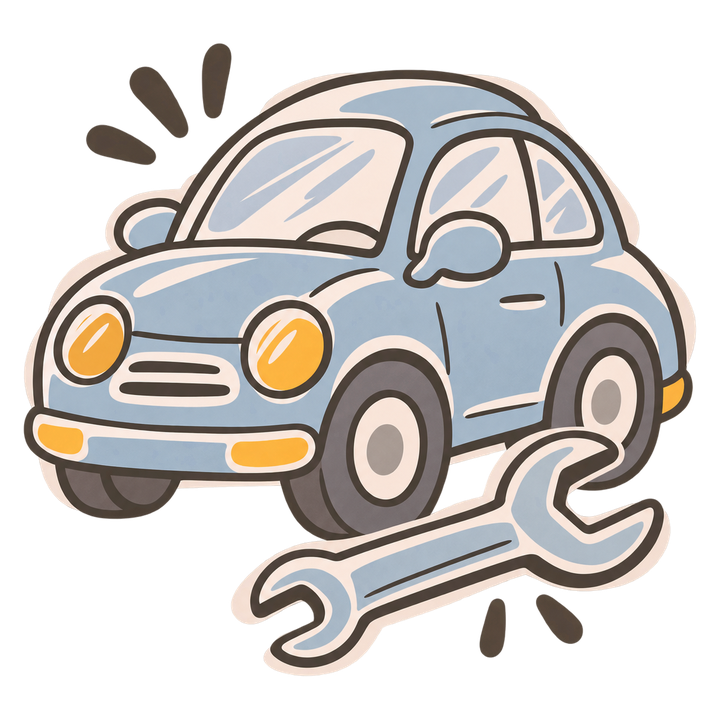
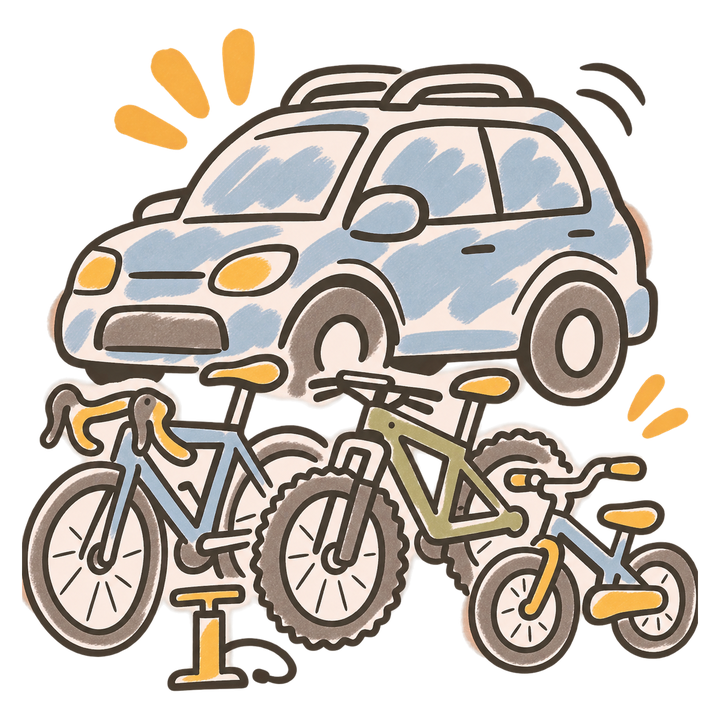
Neues Bild für Auto & Fahrräder
Claude-Session: https://claude.ai/code/session_0153etfXZ4ZJ4eYpqE3t9jxu

diff --git a/docs/kartentexte.md b/docs/kartentexte.md
@@ -29,7 +29,7 @@ Die geparkten Karten haben bisher nur eine kurze Beschreibung. Holt ihr eine zur
 
 | Karte | Worum geht's | Dran-Denken | Planen | Erledigen |
 | --- | --- | --- | --- | --- |
-| **Auto** (O1) | Das Auto fährt, ist versichert und sicher. | Denkt an Service, Pickerl bzw. TÜV, Reifenwechsel und Tankstand. | Macht Werkstatttermine und vergleicht Versicherungen. | Bringt das Auto hin, wechselt Reifen, tankt und wäscht es. |
+| **Auto & Fahrräder** (O1) | Auto und Familienräder sind fahrbereit, versichert und sicher. Matthias' Rennrad pflegt er selbst. | Denkt an Service, Pickerl bzw. TÜV, Reifenwechsel und Tankstand – und daran, dass die Fahrräder Luft, Licht und funktionierende Bremsen haben und Leanders Rad noch passt. | Macht Werkstatttermine, vergleicht Versicherungen und plant Rad-Service, Ersatzteile, Schlösser und Helme. | Bringt Auto und Räder zur Werkstatt, wechselt Reifen, tankt, wäscht das Auto und pumpt die Räder auf. |
 | **Familienkalender** (O3) | Alle Termine der Familie stehen an einem Ort, und alle wissen, was ansteht. | Bemerkt neue Termine aus Schule, Arbeit, Vereinen und Familie. | Trägt ein, erkennt Überschneidungen und klärt, wer wann wo ist. | Erinnert rechtzeitig und hält den Kalender aktuell. |
 | **Bargeld & Rechnungen** (O4) | Rechnungen sind bezahlt, und es ist genug Bargeld da. | Merkt, wann Rechnungen kommen und wann Bargeld oder Taschengeld gebraucht wird. | Richtet Daueraufträge ein und behält Fälligkeiten im Blick. | Zahlt, hebt ab und legt Belege ab. |
 | **Elektronik & IT** (O7) | Geräte, WLAN, Konten und Updates funktionieren. | Merkt, wenn etwas hakt, und denkt an Updates, Backups und Passwörter. | Wählt Geräte und Verträge aus und plant Einrichtung oder Austausch. | Richtet ein, repariert, aktualisiert und hilft bei Problemen. |
@@ -60,7 +60,7 @@ Die geparkten Karten haben bisher nur eine kurze Beschreibung. Holt ihr eine zur
 | **Schulwechsel** (C18) | Leanders Wechsel aufs Gymnasium gelingt gut. | Denkt an Anmeldung, Probeunterricht, Schulweg und Eingewöhnung. | Vergleicht Schulen, hält Fristen ein und bereitet Leander vor. | Meldet an, begleitet die ersten Tage und hält Kontakt zur neuen Schule. |
 | **Self-Care (Katja)** (C19) | Katja hat Zeit für das, was sie gesund und kräftig hält. | Merkt, was sie braucht: Sport, Schlaf, Arzttermine, Pausen. | Blockt feste Zeiten dafür im Kalender. | Nimmt sich die Zeit – und hält sie. |
 | **Self-Care (Matthias)** (C20) | Matthias hat Zeit für das, was ihn gesund und kräftig hält. | Merkt, was er braucht: Sport, Schlaf, Arzttermine, Pausen. | Blockt feste Zeiten dafür im Kalender. | Nimmt sich die Zeit – und hält sie. |
-| **Besondere Bedürfnisse & psychische Gesundheit (Kind)** (C21) | Leander bekommt die Begleitung, die er braucht – Ärzte, Therapie, Rezepte und Struktur im Alltag. | Hat Termine, Medikation, Rezepte und Gespräche mit Schule und Therapie im Blick, auch allgemeine Arzttermine. | Sucht Fachleute, koordiniert Termine und Kosten und plant die Unterstützung. | Geht zu Terminen, holt Rezepte und Medikamente und setzt Absprachen im Alltag um. |
+| **Besondere Bedürfnisse & psychische Gesundheit (Kind)** (C21) | Leander bekommt die Begleitung, die er braucht – Ärzte, Therapie, Rezepte und Struktur im Alltag. | Hat Termine, Medikation, Rezepte und Gespräche mit Schule und Therapie im Blick, auch allgemeine Arzttermine. | Sucht Fachleute, koordiniert Termine und Kosten und plant die Unterstützung – auch die Absprachen mit unserer Familienintensivbetreuerin. | Geht zu Terminen, holt Rezepte und Medikamente und setzt Absprachen im Alltag um. |
 | **Kommunikation mit Lehrkräften** (C22) | Wir sind mit Leanders Lehrkräften in gutem Kontakt. | Liest Nachrichten und merkt, wann ein Gespräch nötig ist. | Vereinbart Sprechstunden und bereitet Gespräche vor. | Führt Gespräche, antwortet und gibt Infos an den anderen weiter. |
 
 ## Magie & Rituale (9)
@@ -73,7 +73,7 @@ Die geparkten Karten haben bisher nur eine kurze Beschreibung. Holt ihr eine zur
 | **Regeln & Bildschirmzeit** (M4) | Wir haben klare, gemeinsame Regeln – auch für die Bildschirmzeit. | Merkt, wo Regeln fehlen, unklar sind oder nicht mehr passen. | Legt die Regeln gemeinsam fest und hält fest, was streng gilt und was locker. | Setzt die Regeln konsequent um, auch wenn es unbequem ist. |
 | **Spielen & Spaß** (M6) | Wir spielen und lachen zusammen. | Merkt, wann es Zeit für Spaß ist und worauf Leander Lust hat. | Plant Spieleabende, Ausflüge und Überraschungen. | Spielt mit – mit vollem Einsatz. |
 | **Feiertage & Feste** (M12) | Weihnachten, Ostern und andere Feste haben ihre Traditionen. | Denkt an anstehende Feste und was dafür dazugehört. | Plant Deko, Essen, Besuche und Rituale. | Dekoriert, kocht, backt und feiert. |
-| **Lernen im Alltag** (M13) | Leander lernt auch außerhalb der Schule – im Museum, in der Natur, beim Kochen. | Merkt, was Leander gerade interessiert. | Sucht passende Bücher, Ausflüge und Experimente. | Geht hin, liest vor und experimentiert mit. |
+| **Lernen im Alltag** (M13) | Leander lernt auch außerhalb der Schule – im Museum, in der Natur, beim Kochen. | Merkt, was Leander gerade interessiert und was er lernen muss – etwa für die Fahrradprüfung. | Sucht passende Bücher, Ausflüge und Experimente. Bei der Fahrradprüfung: überlegt, was und wie geübt wird, recherchiert die Theoriefragen, damit Leander vorab üben kann, und plant die Praxis ein (z. B. freitags auf dem ÖAMTC-Platz). | Geht hin, liest vor und experimentiert mit. Übt mit Leander Theorie und Praxis, bis er die Fahrradprüfung besteht. |
 | **Christkind, Osterhase & Co.** (M14) | Christkind, Osterhase, Nikolaus und Zahnfee bringen Zauber in unser Jahr. | Denkt an Wunschzettel, Nikolaussackerl, Osternest und Zahnfee. | Plant Geschenke, Verstecke und die passende Geschichte. | Füllt, versteckt und hält den Zauber aufrecht. |
 | **Partnerschaft & Date Nights** (M15) | Wir haben regelmäßig Zeit zu zweit. | Merkt, wann es Zeit für uns ist. | Plant Date Nights, organisiert den Babysitter und reserviert. | Sorgt dafür, dass es stattfindet – und ist ganz da. |
 
